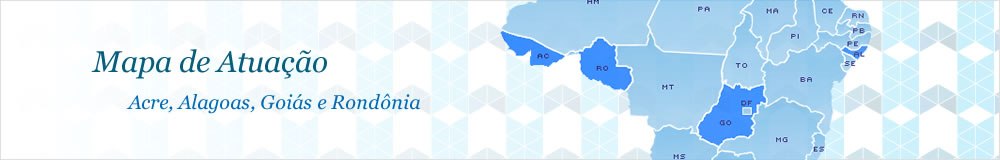
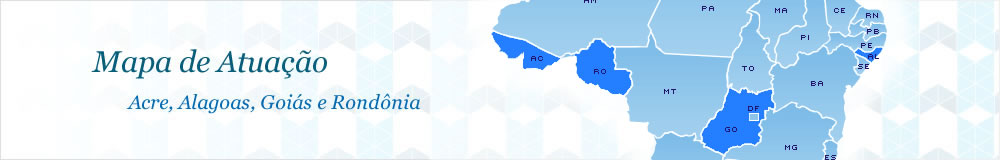
- Block js: Alterando js para que no efeito prev dos blocos o último passe a ser o primeiro;
- Alterndo de Incorporação para Incorporadora;
- Retirando a palavra "Futuros";
- Retirando o carousel das logos do grupo;
- Diminuindo a largura das logos do grupo;
- Banner do Mapa clareado;
- Logos Inc e Urb;

Changed region(s): [[0.465, 0.0, 1.0, 1.0], [0.589, 0.0, 0.62, 0.0312]]

diff --git a/js/block.js b/js/block.js
@@ -1,7 +1,7 @@
 /* INCORPORADORA e URBANISMO */
 jQuery(document).ready(function() { 	
 	/* iniciando posicionado */
-		jQuery(".andamento li .blocks").animate({opacity : 0}, 0);
+		jQuery(".andamento li .blocks").animate({opacity : 0, left: -373}, 0);
 
 		jQuery(".andamento li:first-child .blocks").animate({height : 290, width : 363, left : 0, opacity : 1}, 100);
 		jQuery(".andamento li:first-child .blocks .imgBlock").animate({height : 241, width : 363}, 100);
@@ -31,9 +31,9 @@ jQuery(document).ready(function() {
 			// Block 01 -> Block 02
 				jQuery(elementoPai).find('li:first-child .blocks').animate({height: 140, width: 735, top: 0, left: 373},100);
 				jQuery(elementoPai).find('li:first-child .blocks .imgBlock').animate({height : 140}, 100).animate({width : 500}, 100);
-			// Block 04 -> Block 01
-				jQuery(elementoPai).find('li:nth-child(4) .blocks').animate({height : 290, width : 363, left : 0, top:0, opacity:1}, 100);
-				jQuery(elementoPai).find('li:nth-child(4) .blocks .imgBlock').animate({height : 241}, 100).animate({width : 363}, 100);
+			// Block Last -> Block 01
+				jQuery(elementoPai).find('li:last-child .blocks').animate({height : 290, width : 363, left : 0, top:0, opacity:1}, 100);
+				jQuery(elementoPai).find('li:last-child .blocks .imgBlock').animate({height : 241}, 100).animate({width : 363}, 100);
 			//				
 			//Move o último item e o coloca como o primeiro
 				jQuery(elementoPai).find('li:first-child').before(jQuery(elementoPai).find('li:last'));

diff --git a/css/custom.css b/css/custom.css
@@ -115,6 +115,9 @@ body {
 .es-carousel-wrapper ul li{
 	width: 153px !important;
 }
+.es-carousel img {
+    width: 140px;
+}
 .carousel{
 	margin-bottom: 0;
 }

diff --git a/template-home.php b/template-home.php
@@ -58,8 +58,8 @@ get_template_part('template-parts/slider');
                     <!-- acesso rápido às categorias -->
                     <div id="acessorapido">
                         <ul>
-                            <li class="bgTom01"><a href="#lancamentos">Futuros lançamentos</a></li>
-                            <li class="bgTom02"><a href="#incorporadora">Incorporação</a></li>
+                            <li class="bgTom01"><a href="#lancamentos">Lançamentos</a></li>
+                            <li class="bgTom02"><a href="#incorporadora">Incorporadora</a></li>
                             <li class="bgTom03"><a href="#urbanismo">Urbanismo</a></li>
                         </ul>
                     </div>
@@ -138,7 +138,7 @@ get_template_part('template-parts/slider');
                             <script type="text/javascript" src="<?php echo content_url(); ?>/themes/welcon/js/block.js"></script>
                             
                             <section class="block lancamentos" id="lancamentos">
-                                <h2>Futuros Lançamentos</h2>                                
+                                <h2>Lançamentos</h2>                                
                                 <ul>
                                     <?
                                         $lancamentos_args = array(
@@ -242,7 +242,7 @@ get_template_part('template-parts/slider');
                             </section>
 
                             <section class="block andamento" id="incorporadora">
-                                <h2>Incorporação</h2>                                
+                                <h2>Incorporadora</h2>                                
                                 <ul>
                                     <?
                                         $lancamentos_args = array(
@@ -315,52 +315,33 @@ get_template_part('template-parts/slider');
                 </div>
 
                 <!-- empresas do grupo -->
+<style>
+.es-carousel-wrapper ul li {
+    margin-right: 0 !important;
+}
+.es-carousel-wrapper {
+    padding: 0;
+}
+</style>
                 <section class="featured-properties-carousel clearfix">
                     <h4><a target="_blank" href="http://www.grupoguareschi.com.br"><img src="./wp-content/themes/welcon/banners/grupo/grupo.png"></a></h4>
-                    <div class="carousel es-carousel-wrapper">
-                        <div class="es-carousel">
-                            <ul class="clearfix">
-                                <li>
-                                    <figure>
-                                        <a href="" target="_blank"><img src="./wp-content/themes/welcon/banners/grupo/gagro.png" /></a>
-                                    </figure>
-                                </li>
-                                <li>
-                                    <figure>
-                                        <a href="" target="_blank"><img src="./wp-content/themes/welcon/banners/grupo/gcon.png" /></a>
-                                    </figure>
-                                </li>
-                                <li>
-                                    <figure>
-                                        <a href="" target="_blank"><img src="./wp-content/themes/welcon/banners/grupo/gm.png" /></a>
-                                    </figure>
-                                </li>
-                                <li>
-                                    <figure>
-                                        <a href="" target="_blank"><img src="./wp-content/themes/welcon/banners/grupo/gmix.png" /></a>
-                                    </figure>
-                                </li>
-                                <li>
-                                    <figure>
-                                        <a href="" target="_blank"><img src="./wp-content/themes/welcon/banners/grupo/gnic.png" /></a>
-                                    </figure>
-                                </li>
-                                <li>
-                                    <figure>
-                                        <a href="" target="_blank"><img src="./wp-content/themes/welcon/banners/grupo/gserv.png" /></a>
-                                    </figure>
-                                </li>
-                                <li>
-                                    <figure>
-                                        <a href="" target="_blank"><img src="./wp-content/themes/welcon/banners/grupo/mineracao.png" /></a>
-                                    </figure>
-                                </li>
-                                <li>
-                                    <figure>
-                                        <a href="" target="_blank"><img src="./wp-content/themes/welcon/banners/grupo/welcon.png" /></a>
-                                    </figure>
-                                </li>
-                            </ul>
+                    <div class="tcarousel es-carousel-wrapper">
+                        <div class="es-carousel">                            
+                            <a href="" target="_blank"><img src="./wp-content/themes/welcon/banners/grupo/welcon-inc.png" /></a>
+
+                            <a href="" target="_blank"><img src="./wp-content/themes/welcon/banners/grupo/welcon-urb.png" /></a>
+
+                            <a href="" target="_blank"><img src="./wp-content/themes/welcon/banners/grupo/gnic.png" /></a>
+
+                            <a href="" target="_blank"><img src="./wp-content/themes/welcon/banners/grupo/gm.png" /></a>
+
+                            <a href="" target="_blank"><img src="./wp-content/themes/welcon/banners/grupo/gserv.png" /></a>
+
+                            <a href="" target="_blank"><img src="./wp-content/themes/welcon/banners/grupo/gmix.png" /></a>
+
+                            <a href="" target="_blank"><img src="./wp-content/themes/welcon/banners/grupo/mineracao.png" /></a>
+
+                            <a href="" target="_blank"><img src="./wp-content/themes/welcon/banners/grupo/gagro.png" /></a>
                         </div>
                     </div>
                 </section>
